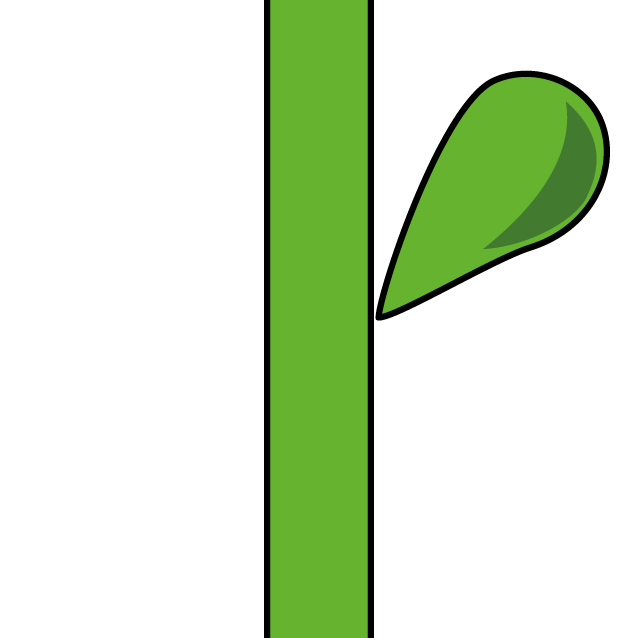
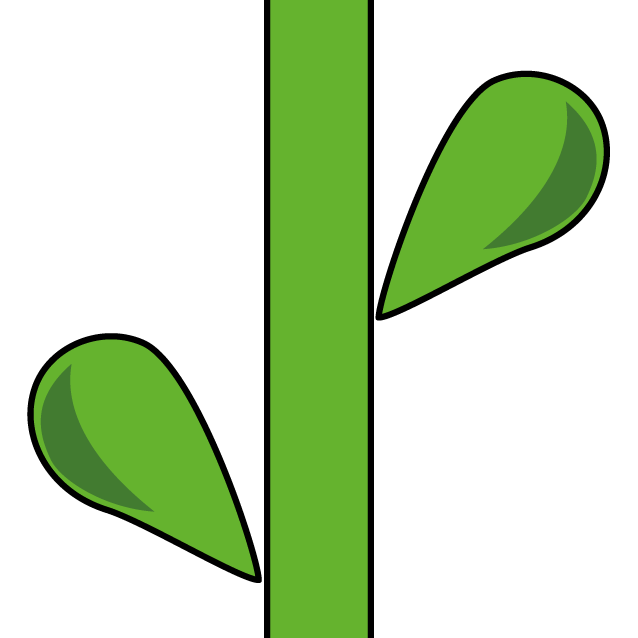
autogenerate random plant height

Changed region(s): [[0.0298, 0.5063, 0.4169, 0.9232]]

diff --git a/scripts/app.js b/scripts/app.js
@@ -9,8 +9,8 @@ function init() {
   const gameOverCard = document.querySelector('#gameOver')
   const ouch = document.querySelector('#ouch')
   const ding = document.querySelector('#ding')
-  console.log(ouch)
-  console.log(livesGraphic)
+  // console.log(ouch)
+  // console.log(livesGraphic)
 
 
   const beePic = document.createElement('img')
@@ -25,9 +25,9 @@ function init() {
   // const flowerPic = document.createElement('img')
   // flowerPic.setAttribute('class', 'flowerImage')
 
-  // const obstaclePic1 = document.createElement('img')
-  // obstaclePic1.setAttribute('class', 'obstacleImage')
-  // obstaclePic1.src = 'assets/stem2.png'
+  // const plantPic1 = document.createElement('img')
+  // plantPic1.setAttribute('class', 'plantImage')
+  // plantPic1.src = 'assets/stem2.png'
 
 
 
@@ -37,14 +37,16 @@ function init() {
   const cells = []
   const beeClass = 'bee'
   const waspClass = 'wasp'
-  const obstacleClass = 'obstacle'
+  const plantClass = 'plant'
   const flowerClass = 'flower'
+  const acornClass = 'acorn'
   let scrollTimer = 150
   let gravityTimer = 550
   let collisionTimer = null
   let gravity = 0
-  const endColumnsUpper = []
-  let plantHeights = []
+  const endColumns = []
+  const topRow = []
+  let plantHeights = [1, 2, 3, 4, 5, 6]
   let currentLives = 3
 
   let currentScore = 0
@@ -53,14 +55,22 @@ function init() {
   const beeStartingPosition = width * (height / 4) + 2
   let beeCurrentPosition = width * (height / 4) + 2
 
-  const obstacleOneStartingPosition = width * height - 1
-  let obstacleOneCurrentPosition = width * height - 1
+  let newPlant = null
 
-  const flowerStartingPosition = obstacleOneCurrentPosition - (width * 2)
-  let flowerCurrentPosition = obstacleOneCurrentPosition - (width * 2)
+  let plantOneStartingPosition = null
+  let plantOneCurrentPosition = plantOneStartingPosition
+
+  let plantTwoStartingPosition = null
+  let plantTwoCurrentPosition = plantTwoStartingPosition
+
+  let flowerStartingPosition = plantOneCurrentPosition - (width * 2)
+  let flowerCurrentPosition = plantOneCurrentPosition - (width * 2)
 
   let waspStartingPosition = width * height
   let waspCurrentPosition = waspStartingPosition
+
+  let acornStartingPosition = width * height
+  let acornCurrentPosition = acornStartingPosition
 
 
   function createGrid() {
@@ -71,20 +81,31 @@ function init() {
       cells.push(cell)
     }
 
-    for (let j = width - 1; j < (width * (height / 2)); j += width) {
-      endColumnsUpper.push(j)
-      console.log(endColumnsUpper)
+    for (let j = width - 1; j < width * height; j += width) {
+      endColumns.push(j)
+      // console.log(endColumns)
     }
+
+    for (let k = 1; k < width; k++) {
+      topRow.push(k)
+      // console.log(topRow)
+    }
+
+    console.log(plantOneCurrentPosition)
+    console.log(plantHeights[Math.floor(Math.random() * plantHeights.length)])
+
 
     livesGraphicUpdate()
     addBee(beeStartingPosition)
-    addObstacle(obstacleOneStartingPosition)
-    addFlower(flowerStartingPosition)
+    generatePlant()
+    // addPlant(plantOneStartingPosition)
+    // addFlower(flowerStartingPosition)
     generateWasp()
     addWasp(waspStartingPosition)
-    // addObstacle(obstacleOneStartingPosition - width)
-    // addObstacle(obstacleOneStartingPosition - (width * 2))
-
+    generateAcorn()
+    addAcorn(acornStartingPosition)
+    // addplant(plantOneStartingPosition - width)
+    // addplant(plantOneStartingPosition - (width * 2))
   }
 
   createGrid()
@@ -108,35 +129,56 @@ function init() {
     cells[beeCurrentPosition - width + 1].classList.remove(beeClass)
   }
 
-  function addObstacle(position) {
-    cells[position].classList.add(obstacleClass)
-    cells[(position) - width].classList.add(obstacleClass)
+  function generatePlant() {
+    newPlant = plantHeights[Math.floor(Math.random() * plantHeights.length)]
+    if (!plantOneCurrentPosition) {
+      plantOneCurrentPosition = width * height - 1
+      cells[plantOneCurrentPosition].classList.add(plantClass)
+      for (let p = 1; p < newPlant; p++) {
+        cells[plantOneCurrentPosition - (width * p)].classList.add(plantClass)
+      } cells[plantOneCurrentPosition - (width * newPlant)].classList.add(flowerClass)
+    } else if (!plantTwoCurrentPosition) {
+      plantTwoCurrentPosition = width * height - 1
+      cells[plantTwoCurrentPosition].classList.add(plantClass)
+    }
+  }
+
+  function addPlant(position) {
+    cells[position].classList.add(plantClass)
+    // cells[(position) - width].classList.add(plantClass)
     // cells[(position) - width].style.transform = 'scaleX(-1)'
-    // cells[position].appendChild(obstaclePic1)
+    // cells[position].appendChild(plantPic1)
   }
 
-  function removeObstacle(position) {
-    cells[obstacleOneCurrentPosition].classList.remove(obstacleClass)
-    cells[obstacleOneCurrentPosition - width].classList.remove(obstacleClass)
-    // cells[obstacleOneCurrentPosition - width].style.transform = 'none'
-
-    // cells[obstacleOneCurrentPosition].removeChild(obstaclePic1)
+  function removePlant(position) {
+    cells[plantOneCurrentPosition].classList.remove(plantClass)
+    for (let h = 1; h <= newPlant; h++) {
+      if (cells[plantOneCurrentPosition - (width * h)].classList.contains(plantClass)) {
+        console.log('PLANT HERE >>>', cells[plantOneCurrentPosition - (width * h)])
+        // cells[plantOneCurrentPosition - (width * h)].classList.remove(plantClass)
+      } else if (cells[plantOneCurrentPosition - (width * h)].classList.contains(flowerClass)) {
+        console.log('FLOWER HERE >>>', cells[plantOneCurrentPosition - (width * h)])
+        // cells[plantOneCurrentPosition - (width * h)].classList.remove(flowerClass)
+      }
+    }
   }
 
-  function addFlower(position) {
-    cells[position].classList.add(flowerClass)
-  }
 
-  function removeFlower(position) {
-    cells[flowerCurrentPosition].classList.remove(flowerClass)
-  }
+  // function addFlower(position) {
+  //   cells[position].classList.add(flowerClass)
+  // }
+
+  // function removeFlower(position) {
+  //   cells[flowerCurrentPosition].classList.remove(flowerClass)
+  // }
 
   function generateWasp() {
-    waspStartingPosition = endColumnsUpper[Math.floor(Math.random() * endColumnsUpper.length)]
+    waspStartingPosition = endColumns[Math.floor(Math.random() * endColumns.length)]
     console.log('WASP>>>>>', waspStartingPosition)
     waspCurrentPosition = waspStartingPosition
     cells[waspStartingPosition].classList.add(waspClass)
   }
+
 
   function addWasp(position) {
     cells[position].classList.add(waspClass)
@@ -144,6 +186,21 @@ function init() {
 
   function removeWasp(position) {
     cells[waspCurrentPosition].classList.remove(waspClass)
+  }
+
+  function generateAcorn() {
+    acornStartingPosition = topRow[Math.floor(Math.random() * topRow.length)]
+    console.log('ACORN', acornStartingPosition)
+    acornCurrentPosition = acornStartingPosition
+    cells[acornStartingPosition].classList.add(acornClass)
+  }
+
+  function addAcorn(position) {
+    cells[position].classList.add(acornClass)
+  }
+
+  function removeAcorn(position) {
+    cells[acornCurrentPosition].classList.remove(acornClass)
   }
 
   function navigate(event) {
@@ -169,6 +226,8 @@ function init() {
       clearInterval(gravity)
       clearInterval(waspFlying)
       clearInterval(collisionTimer)
+      clearInterval(fallingAcorn)
+
     }
     console.log('CURRENT BEE', beeCurrentPosition)
     // console.log('DELAY IN HOLD>>>>', new Date().getMilliseconds())
@@ -179,13 +238,18 @@ function init() {
 
   const scrolling = setInterval(() => {
     // collisionDetectionScroll()
-    removeObstacle()
-    removeFlower()
-    if (obstacleOneCurrentPosition % width !== 0) {
-      obstacleOneCurrentPosition--
-      flowerCurrentPosition--
-      addObstacle(obstacleOneCurrentPosition)
-      addFlower(flowerCurrentPosition)
+    removePlant()
+    // removeFlower()
+    removeAcorn()
+    if (plantOneCurrentPosition % width !== 0) {
+      plantOneCurrentPosition--
+      // flowerCurrentPosition--
+      addPlant(plantOneCurrentPosition)
+      // addFlower(flowerCurrentPosition)
+    }
+    if (acornCurrentPosition % width !== 0) {
+      acornCurrentPosition--
+      addAcorn(acornCurrentPosition)
     }
     // console.log(Math.floor(Math.random() * 5) * 1000)
   }, scrollTimer)
@@ -237,6 +301,16 @@ function init() {
     }
   }, scrollTimer * 0.7)
 
+  const fallingAcorn = setInterval(() => {
+    // collisionDetectionScroll()
+    removeAcorn()
+    if (acornCurrentPosition + width < width * height) {
+      acornCurrentPosition += width
+      addAcorn(acornCurrentPosition)
+    } else {
+      generateAcorn()
+    }
+  }, gravityTimer * .5)
 
   function resetGravityTimer() {
     clearInterval(gravity)
@@ -245,14 +319,14 @@ function init() {
 
   function collisionDetectionScroll() {
     setTimeout(() => {
-      if (cells[obstacleOneCurrentPosition - 1].classList.contains(beeClass) && obstacleOneCurrentPosition % width !== 0) {
+      if (cells[plantOneCurrentPosition - 1].classList.contains(beeClass) && plantOneCurrentPosition % width !== 0) {
         gameOver()
       }
     }, scrollTimer - 20)
   }
 
   function collisionDetectionNav() {
-    if (cells[beeCurrentPosition].classList.contains(obstacleClass)) {
+    if (cells[beeCurrentPosition].classList.contains(plantClass)) {
       gameOver()
     }
   }
@@ -266,7 +340,7 @@ function init() {
   //     clearInterval(collisionCheck)
   //     setTimeout(1000)
   //   }
-  //   if (cells[beeCurrentPosition].classList.contains(obstacleClass) || cells[beeCurrentPosition + 1].classList.contains(obstacleClass) || cells[beeCurrentPosition - width].classList.contains(obstacleClass) || cells[beeCurrentPosition - (width + 1)].classList.contains(obstacleClass)) {
+  //   if (cells[beeCurrentPosition].classList.contains(plantClass) || cells[beeCurrentPosition + 1].classList.contains(plantClass) || cells[beeCurrentPosition - width].classList.contains(plantClass) || cells[beeCurrentPosition - (width + 1)].classList.contains(plantClass)) {
   //     console.log('BANG PLANT')
   //     currentLives--
   //     console.log('LIVES>>>', currentLives)
@@ -276,7 +350,7 @@ function init() {
   // }, 75)
 
 
-  function startCollisionCheck(typeOne, typeTwo, typeThree) {
+  function startCollisionCheck(typeOne, typeTwo, typeThree, typeFour) {
     console.log('COLLISION TIMER AT START OF CHECK', collisionTimer)
     console.log('STARTING CHECK')
     if (!collisionTimer) {
@@ -289,6 +363,9 @@ function init() {
           collisionDetectedBad()
         }
         if (cells[beeCurrentPosition].classList.contains(typeThree) || cells[beeCurrentPosition + 1].classList.contains(typeThree) || cells[beeCurrentPosition - width].classList.contains(typeThree) || cells[beeCurrentPosition - (width + 1)].classList.contains(typeThree)) {
+          collisionDetectedBad()
+        }
+        if (cells[beeCurrentPosition].classList.contains(typeFour) || cells[beeCurrentPosition + 1].classList.contains(typeFour) || cells[beeCurrentPosition - width].classList.contains(typeFour) || cells[beeCurrentPosition - (width + 1)].classList.contains(typeFour)) {
           collisionDetectedGood()
         }
       }, 75)
@@ -314,7 +391,7 @@ function init() {
       setTimeout(() => {
         grid.classList.toggle('collision')
         console.log('......AND')
-        startCollisionCheck(waspClass, obstacleClass, flowerClass)
+        startCollisionCheck(waspClass, plantClass, acornClass, flowerClass)
       }, 1000)
     }
   }
@@ -338,8 +415,8 @@ function init() {
   }
 
   function collisionCheck() {
-    startCollisionCheck(waspClass, obstacleClass, flowerClass)
-    //   if (cells[beeCurrentPosition].classList.contains(obstacleClass) || cells[beeCurrentPosition + 1].classList.contains(obstacleClass) || cells[beeCurrentPosition - width].classList.contains(obstacleClass) || cells[beeCurrentPosition - (width + 1)].classList.contains(obstacleClass)) {
+    startCollisionCheck(waspClass, plantClass, acornClass, flowerClass)
+    //   if (cells[beeCurrentPosition].classList.contains(plantClass) || cells[beeCurrentPosition + 1].classList.contains(plantClass) || cells[beeCurrentPosition - width].classList.contains(plantClass) || cells[beeCurrentPosition - (width + 1)].classList.contains(plantClass)) {
     //     console.log('BANG PLANT')
     //     currentLives--
     //     console.log('LIVES>>>', currentLives)
@@ -358,6 +435,7 @@ function init() {
     clearInterval(scrolling)
     clearInterval(collisionTimer)
     clearInterval(waspFlying)
+    clearInterval(fallingAcorn)
     gameOverCard.classList.toggle('hidden')
     grid.classList.toggle('hidden')
     // window.alert('GAME OVER')

diff --git a/styles/main.css b/styles/main.css
@@ -56,6 +56,7 @@ header {
   flex-grow: 1;
   background-position: center;
 }
+
 .livesFull {
   background-image: url('../assets/full_life.png');
 }
@@ -107,6 +108,10 @@ main {
   
 }
 
+.grid div.acorn {
+  background-image: url('../assets/acorn.gif');
+  background-size: cover;
+}
 
 .grid div.wasp {
   background-image: url('../assets/cropped_wasp.gif');
@@ -156,8 +161,6 @@ main {
 }
 
 
-
-
 .popUp {
   width: 40%;
   height: 70%;
@@ -175,7 +178,7 @@ main {
   display: none;
 }
 
-.grid div.obstacle {
+.grid div.plant {
   background-image: url('../assets/stem2.png');
   background-size: cover;
   /* background-size: contain; */
